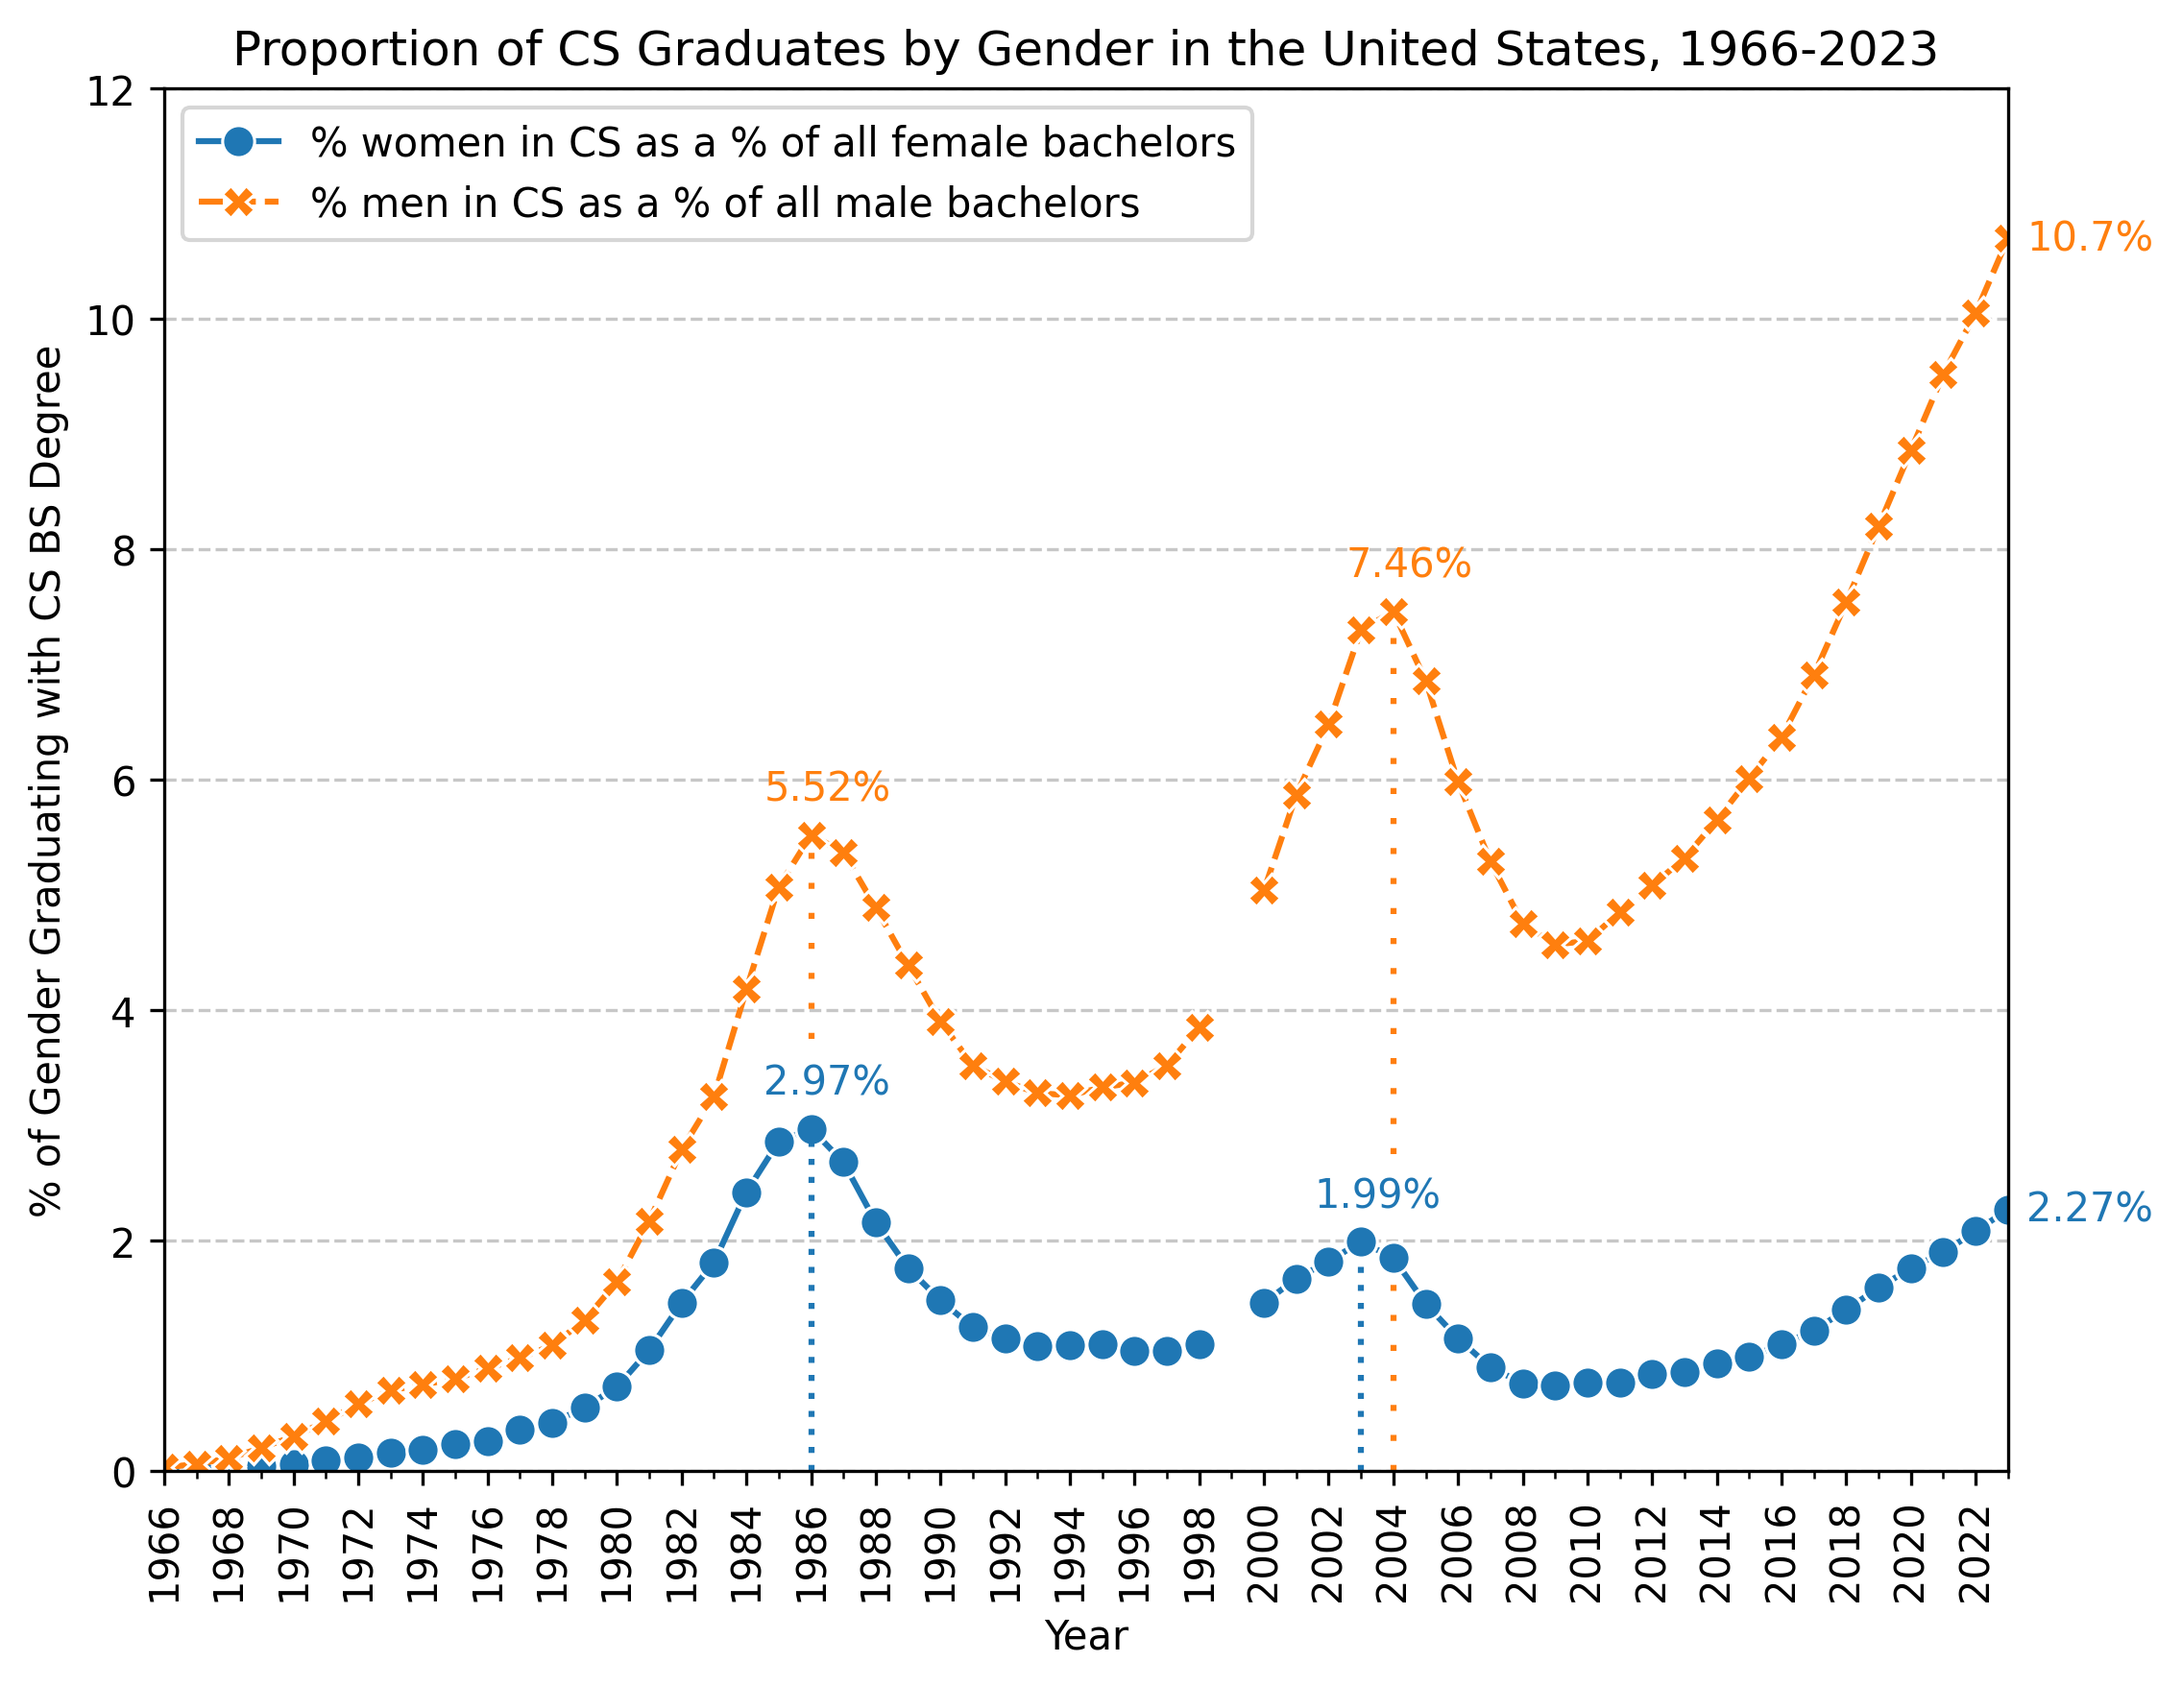
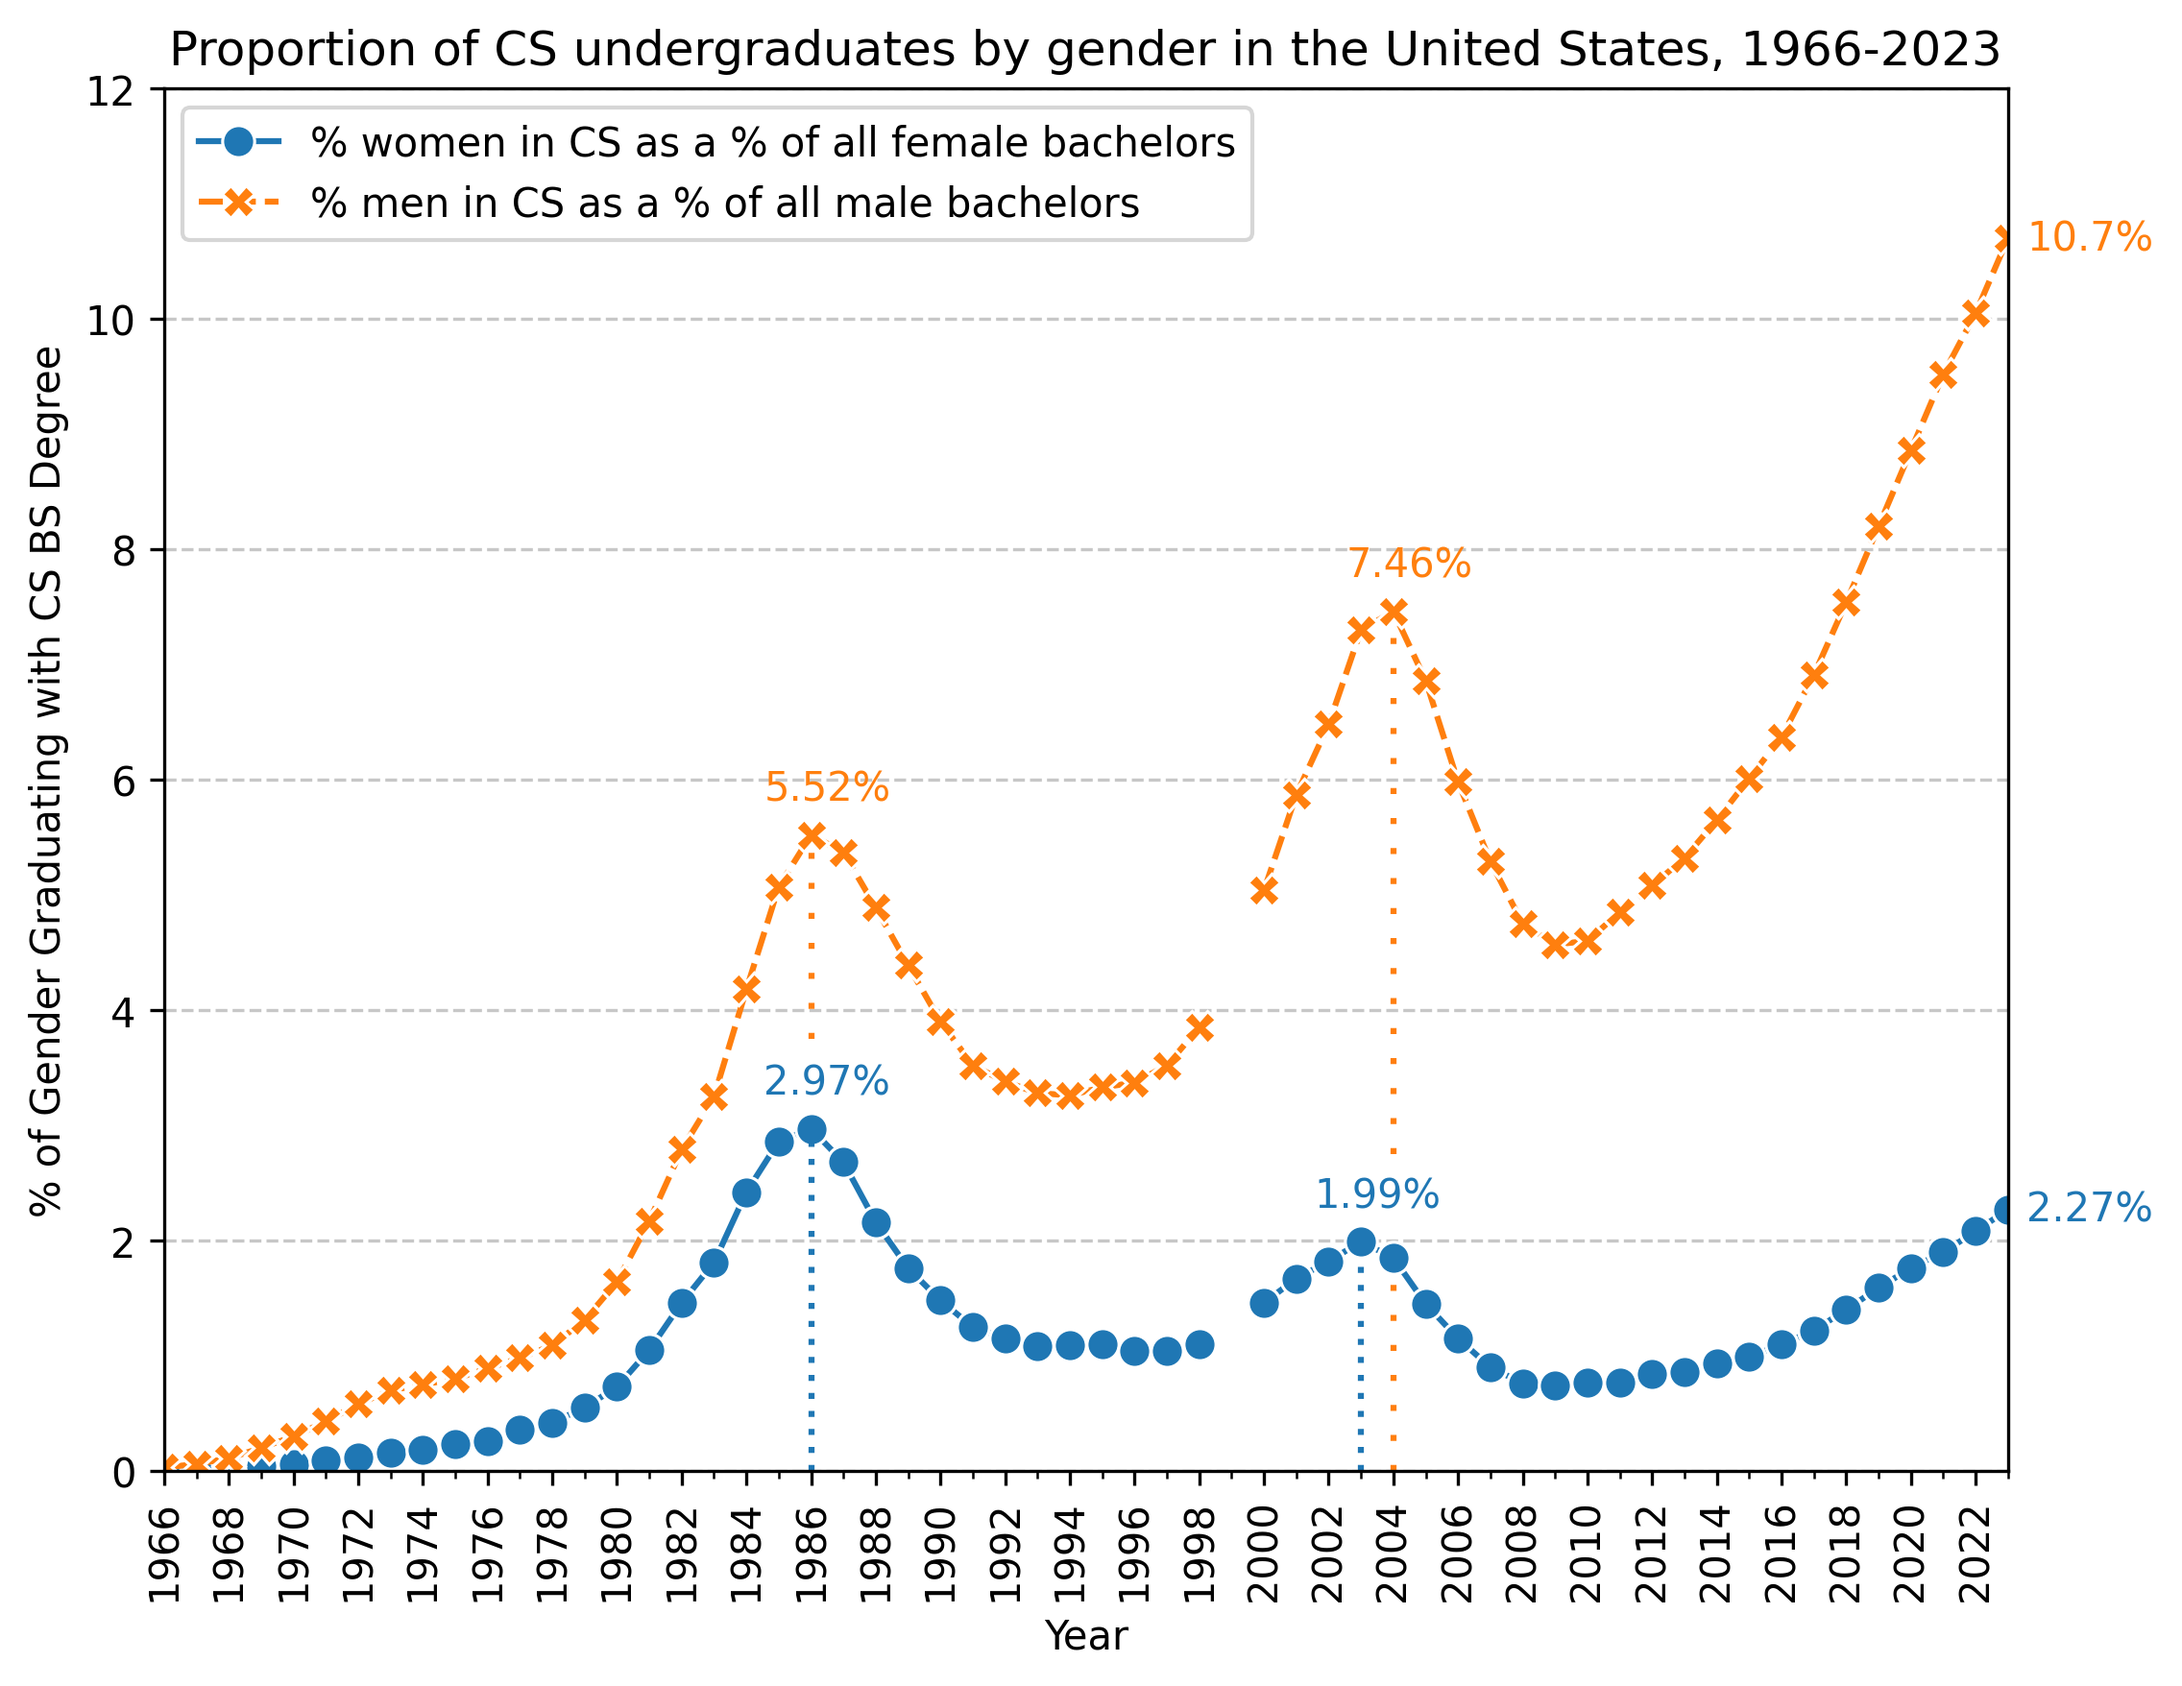
fix names

Changed region(s): [[0.0625, 0.0, 0.9062, 0.0615]]

diff --git a/src/figure13_2.py b/src/figure13_2.py
@@ -158,7 +158,7 @@ aggregate["compsci_percent:women"] = ((aggregate["compsci:women"] / aggregate["a
 aggregate["compsci_percent:men"] = ((aggregate["compsci:men"] / aggregate["all:men"]) * 100).round(2)  # type: ignore
 
 aggregate.to_csv(
-  f"{FILE}/../data/fig13.2/processed/Proportion of Undergraduates earning Computer Science Degrees by Gender, 1966-2023.csv",
+  f"{FILE}/../data/fig13.2/processed/Proportion of CS graduates by gender in the United States, 1966-2023.csv",
   encoding="utf8",
 )
 
@@ -239,7 +239,7 @@ handles, labels = plt.gca().get_legend_handles_labels()
 
 plt.xlabel("Year")  # type: ignore
 plt.ylabel("% of Gender Graduating with CS BS Degree")  # type: ignore
-plt.title("Proportion of CS Graduates by Gender in the United States, 1966-2023")  # type: ignore
+plt.title("Proportion of CS undergraduates by gender in the United States, 1966-2023")  # type: ignore
 
 plt.legend(  # type: ignore
   handles=handles,

diff --git a/README.md b/README.md
@@ -122,7 +122,7 @@ TODO
 ### Figure 13.2
 
 <figure>
-  <figcaption>Proportion of CS Graduates by Gender in the United States, 1966-2023</figcaption>
+  <figcaption>Proportion of CS undergraduates by gender in the United States, 1966-2023</figcaption>
   <img src="./media/fig13.2.png" alt="Computer science degrees conferred in the United States, 1966-2023">
 </figure>
 
@@ -131,24 +131,24 @@ The raw data used:
 - 2012-2023: IPEDs Completions, retrieved/generated through Summary Tables.
 
 The processed data::
-- [Proportion of Undergraduates earning Computer Science Degrees by Gender, 1966-2023](./data/fig13.2/processed/Proportion%20of%20Undergraduates%20earning%20Computer%20Science%20Degrees%20by%20Gender,%201966-2023.csv)
+- [Proportion of CS graduates by gender in the United States, 1966-2023](./data/fig13.2/processed/Proportion%20of%20CS%20graduates%20by%20gender%20in%20the%20United%20States,%201966-2023.csv)
 
 Use this chart/data with this citation:
 ```bibtex
 @misc{Duong_chart,
   author = {Duong, Cody},
-  title = {{Proportion of CS Graduates by Gender in the United States, 1966-2023}},
+  title = {{Proportion of CS undergraduates by gender in the United States, 1966-2023}},
   url = {https://github.com/codyduong/Gender-Codes/tree/master/media/fig13.2.png},
   year = 2025
 }
 
 @misc{Duong_dataset1,
   author = {Duong, Cody},
-  title = {{Proportion of Undergraduates earning Computer Science Degrees by Gender, 1966-2023}},
-  url = {https://github.com/codyduong/Gender-Codes/tree/master/data/fig13.2/processed/Proportion%20of%20Undergraduates%20earning%20Computer%20Science%20Degrees%20by%20Gender,%201966-2023.csv},
+  title = {{Proportion of CS graduates by gender in the United States, 1966-2023}},
+  url = {https://github.com/codyduong/Gender-Codes/tree/master/data/fig13.2/processed/Proportion%20of%20CS%20graduates%20by%20gender%20in%20the%20United%20States,%201966-2023.csv},
   year = 2025
 }
 ```
-> Duong, C. (2025). Proportion of CS Graduates by Gender in the United States, 1966-2023 [Graph]. https://github.com/codyduong/Gender-Codes/tree/master/media/fig13.2.png
+> Duong, C. (2025). Proportion of CS undergraduates by gender in the United States, 1966-2023 [Graph]. https://github.com/codyduong/Gender-Codes/tree/master/media/fig13.2.png
 >
-> Duong, C. (2025). Proportion of Undergraduates earning Computer Science Degrees by Gender, 1966-2023 [Data set]. https://github.com/codyduong/Gender-Codes/tree/master/data/fig13.2/processed/Proportion%20of%20Undergraduates%20earning%20Computer%20Science%20Degrees%20by%20Gender,%201966-2023.csv
+> Duong, C. (2025). Proportion of CS graduates by gender in the United States, 1966-2023 [Data set]. https://github.com/codyduong/Gender-Codes/tree/master/data/fig13.2/processed/Proportion%20of%20CS%20graduates%20by%20gender%20in%20the%20United%20States,%201966-2023.csv
